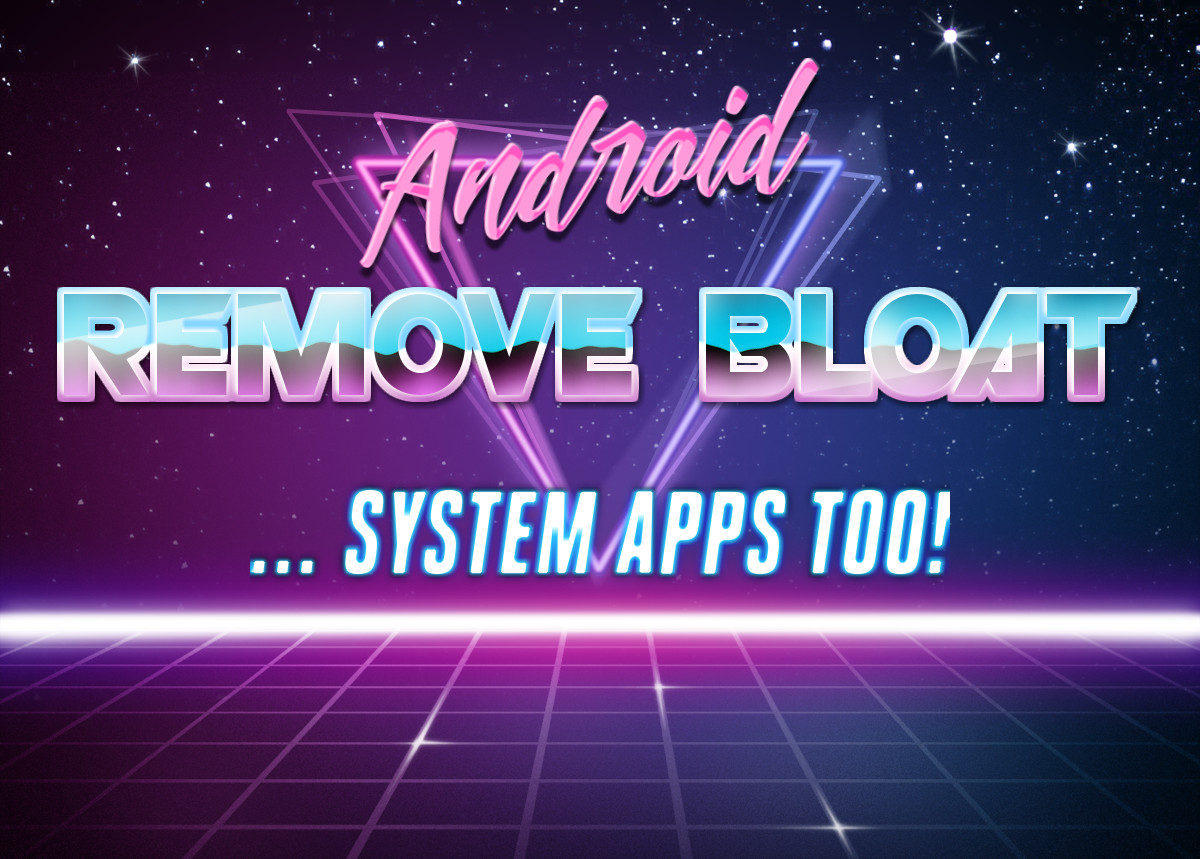
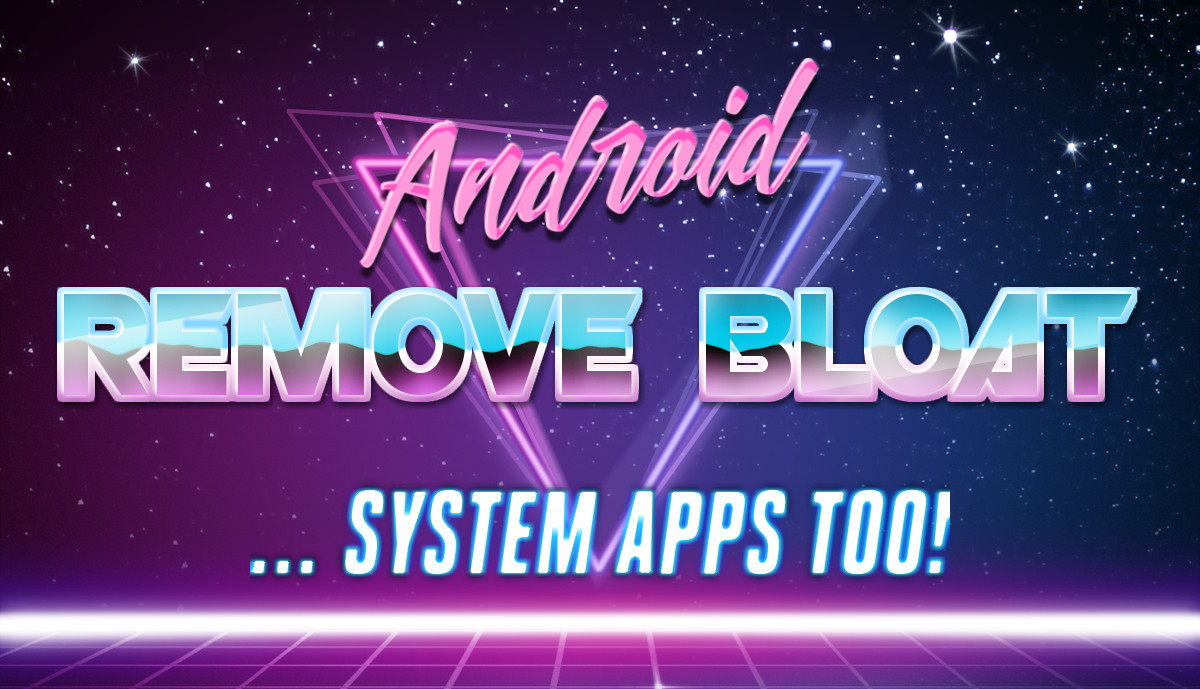
Add: Android - Remove Bloatware

diff --git a/_posts/2025-06-12-ADB-remove-bloat.md b/_posts/2025-06-12-ADB-remove-bloat.md
@@ -1,0 +1,63 @@
+---
+layout: post
+title:  "Android - Remove or disable bloatware apps and even system apps!"
+categories: [Android Administration]
+tags: [android,adb,debug,bridge,bloat,bloatware,remove]
+image:
+  path: /assets/img/2025-06-12-remove-bloatware.jpg
+last_modified_at: 2025-06-12 19:00:00 +0100
+---
+
+## Enabling ADB
+Enabling the so called "Developer Mode" with the use of Android Debug Bridge (ADB) is very easy and very handy sometimes.
+> For security reasons **don't forget to disable it** when you're done.
+{: .prompt-warning}
+
+> Depending on your device's manufacturer every menu text can look different.
+{: .prompt-info}
+
+* Go to the `settings` app of your device. Tap on `About phone`.
+* Scroll down till you'll find a entry called `Build number` and tap it 6-7 times.
+* If successful you'll be presented with a little notification at the bottom of the screen which says "You are a developer now!" (Or similar)
+
+## Installation
+
+You'll need `android-sdk-platform-tools` and there is a very well written article from `xda-Developers` which explains it:
+[https://www.xda-developers.com/install-adb-windows-macos-linux/](https://www.xda-developers.com/install-adb-windows-macos-linux/)
+
+## Usage
+
+In my use case I use this method to get rid of bloat apps from my TV's for example. So therefor I use `Termux` on my mobile and enable `Wireless debugging` on my TV's.
+
+Then I connect to my TV's with the following command:
+```shell
+adb connect <ip of device>
+```
+
+Then you have to allow this connection, as described in the article before and go to the shell of the device:
+
+```shell
+adb shell
+```
+
+## Uninstall of android apps
+
+You'll need to identify the package names of the desired app you want to remove / disable. Just long press on the app icon and go to `App-Info`. Anywhere there you should find the package name. For example for `Netflix` it is `com.netflix.mediaclient`.
+
+```shell
+pm uninstall -k --user 0 com.netflix.mediaclient
+```
+> It might be a good idea to write down every package you disable. To undo changes maybe... :-)
+{: .prompt-info}
+
+## Undo changes
+
+```shell
+adb shell cmd package install-existing com.netflix.mediaclient
+```
+
+## Universal Android Debloater
+
+This is a powerful tool written by [0x192](https://github.com/0x192) to do above described tasks automatically! You'll find it on [GitHub](https://github.com/0x192/universal-android-debloater).
+
+![github-uad](https://github.com/0x192/universal-android-debloater/blob/main/resources/screenshots/v0.5.0.png?raw=true)
